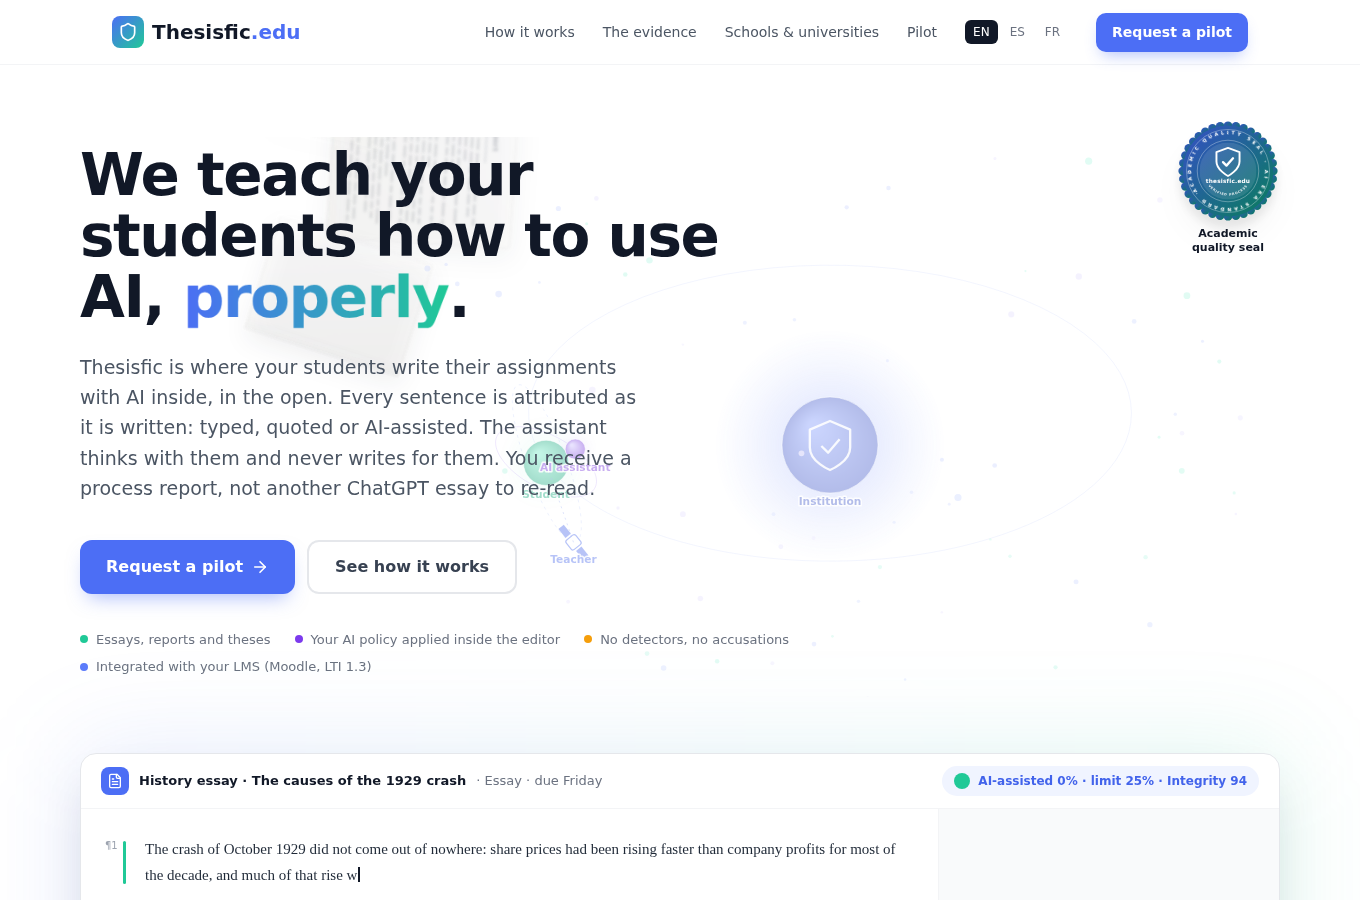
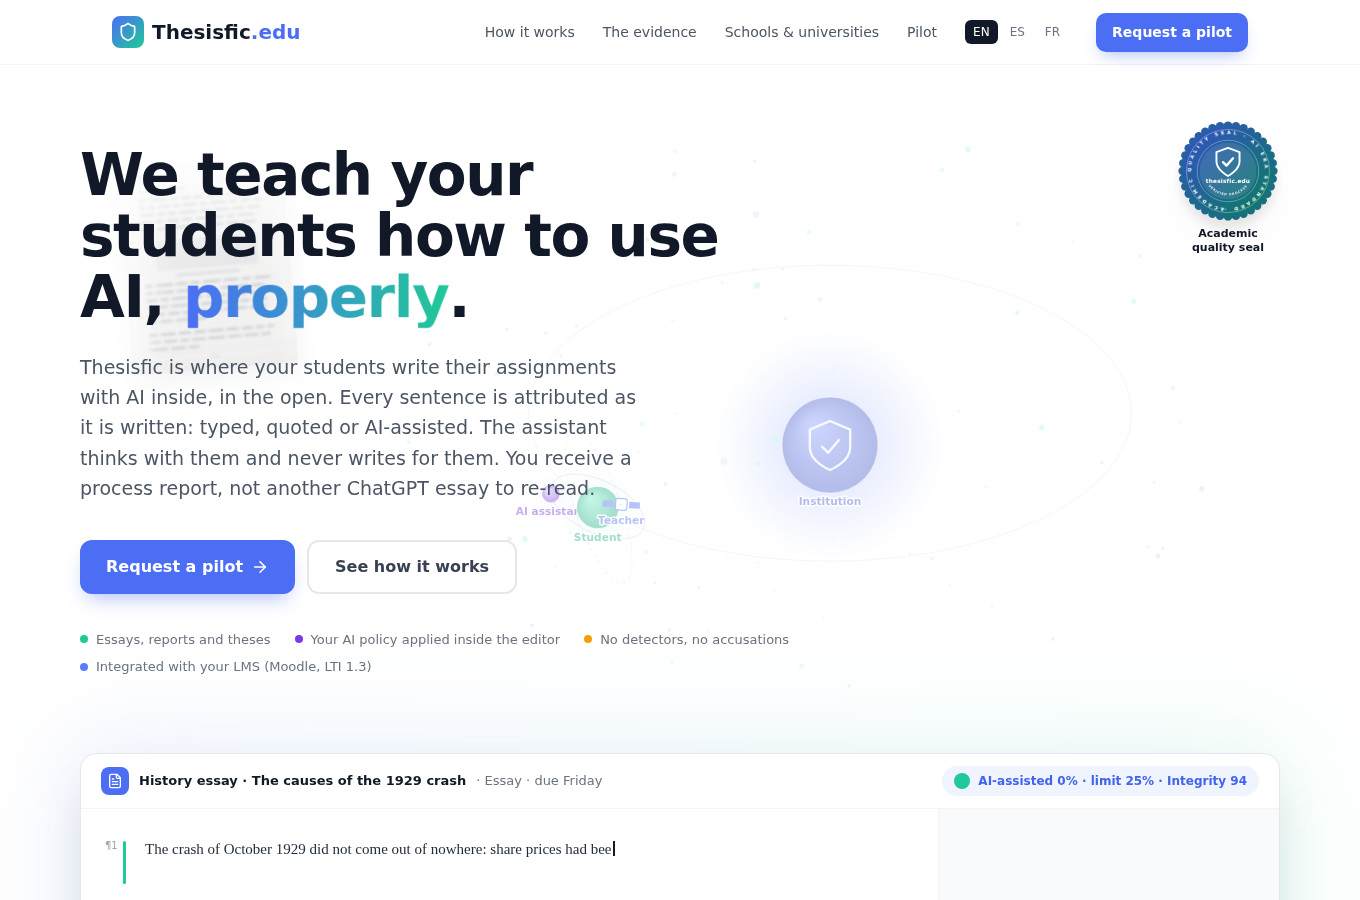
fix(landing): papers fade in at the top and sides of the column instead of being cut
A soft mask over the papers canvas: whatever crosses the top edge or the two
side edges of the copy column dissolves instead of showing a hard edge, so
the sheets appear out of nothing and never look clipped. They now start a
little higher so the first thing seen is the fade.

Claude-Session: https://claude.ai/code/session_01NfcTCs5dN5Mu3KAtotkdT9

diff --git a/src/components/landing/FallingPapers.tsx b/src/components/landing/FallingPapers.tsx
@@ -61,7 +61,7 @@ export default function FallingPapers({ className = "" }: { className?: string }
       const zw = zoneWidth(W);
       return {
         x: rnd(w * 0.5, Math.max(w * 0.6, zw - w * 0.5)),
-        y: startY ?? -h - rnd(0, H * 0.3),
+        y: startY ?? -h * 1.2 - rnd(0, H * 0.3),
         w, h,
         vy: rnd(15, 50),
         phi: rnd(-0.35, 0.35), vphi: rnd(-0.5, 0.5),
@@ -210,6 +210,24 @@ export default function FallingPapers({ className = "" }: { className?: string }
         if (alpha < 0.004) continue;
         drawSheet(s, alpha, Math.cos(s.theta), Math.max(0, Math.min(1, s.y / H)));
       }
+      // Soft edges: whatever crosses the top or the sides of the column fades out instead of being cut.
+      ctx.save();
+      if ("filter" in ctx) ctx.filter = "none";
+      ctx.globalAlpha = 1;
+      ctx.globalCompositeOperation = "destination-in";
+      const top = ctx.createLinearGradient(0, 0, 0, H * 0.22);
+      top.addColorStop(0, "rgba(0,0,0,0)");
+      top.addColorStop(1, "rgba(0,0,0,1)");
+      ctx.fillStyle = top;
+      ctx.fillRect(0, 0, W, H);
+      const sides = ctx.createLinearGradient(0, 0, W, 0);
+      sides.addColorStop(0, "rgba(0,0,0,0)");
+      sides.addColorStop(Math.min(0.3, 90 / W), "rgba(0,0,0,1)");
+      sides.addColorStop(1 - Math.min(0.3, 90 / W), "rgba(0,0,0,1)");
+      sides.addColorStop(1, "rgba(0,0,0,0)");
+      ctx.fillStyle = sides;
+      ctx.fillRect(0, 0, W, H);
+      ctx.restore();
       if (!reduce) raf = requestAnimationFrame(frame);
     };
     raf = requestAnimationFrame(frame);
